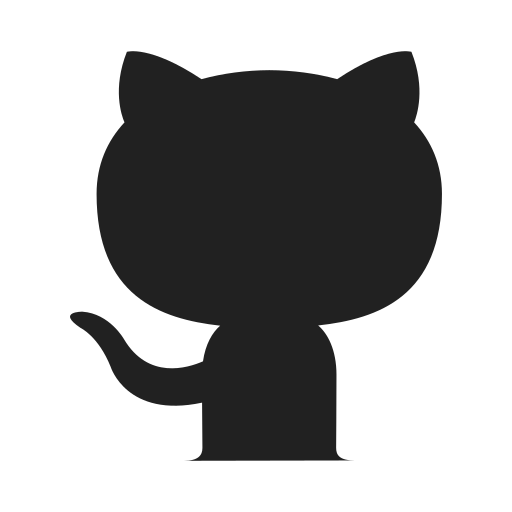
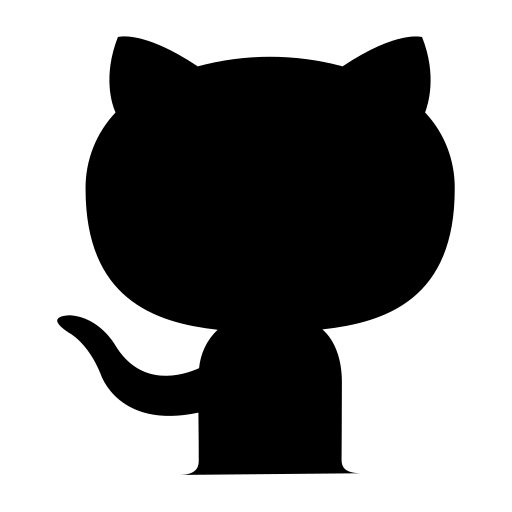
Okay okay okay

diff --git a/index.html b/index.html
@@ -24,7 +24,7 @@
     <div class="row">
         <div class="col-sm-3 links_left">
             <a href="https://github.com/Spacenin" target="_blank">
-				<img src="assets/github.png" class="comp_logo" alt="Github logo">
+				<img src="assets/github.png" class="comp_logo" alt="Github logo" style="padding-top: 1px;">
 				<u>GitHub</u>
 			</a>
         </div>
@@ -42,7 +42,7 @@
         </div>
         <div class="col-sm-3 links_right">
 			<a href="assets/resume.pdf" target="_blank">
-				<img src="assets/document.png" class="comp_logo" alt="Resume Logo">
+				<img src="assets/document.png" class="comp_logo" alt="Resume Logo" style="height:95%;padding-top: 2px;">
 				<u>Resume</u>
 			</a>
         </div>

diff --git a/README.md b/README.md
@@ -5,7 +5,7 @@ Currently in progress....
 
 --Credits--  
 [Favicon Icon](https://www.flaticon.com/free-icon/cpu_1383401?term=cpu%20tower&page=1&position=28&page=1&position=28&related_id=1383401&origin=search)  
-[Github Icon](https://www.flaticon.com/premium-icon/github_3128308?term=github&page=1&position=3&page=1&position=3&related_id=3128308&origin=search)  
+[Github Icon](https://www.flaticon.com/premium-icon/github_4926624?term=github&page=1&position=13&page=1&position=13&related_id=4926624&origin=search)  
 [LinkedIn Icon](https://www.flaticon.com/premium-icon/linkedin_3128219?term=linkedin&page=1&position=4&page=1&position=4&related_id=3128219&origin=search)  
 [Clemson Icon](https://www.flaticon.com/free-icon/mortarboard_1940611?term=education&page=1&position=4&page=1&position=4&related_id=1940611&origin=tag)  
 [Resume Icon](https://www.flaticon.com/premium-icon/file_2822526?term=document&page=1&position=10&page=1&position=10&related_id=2822526&origin=search)  
